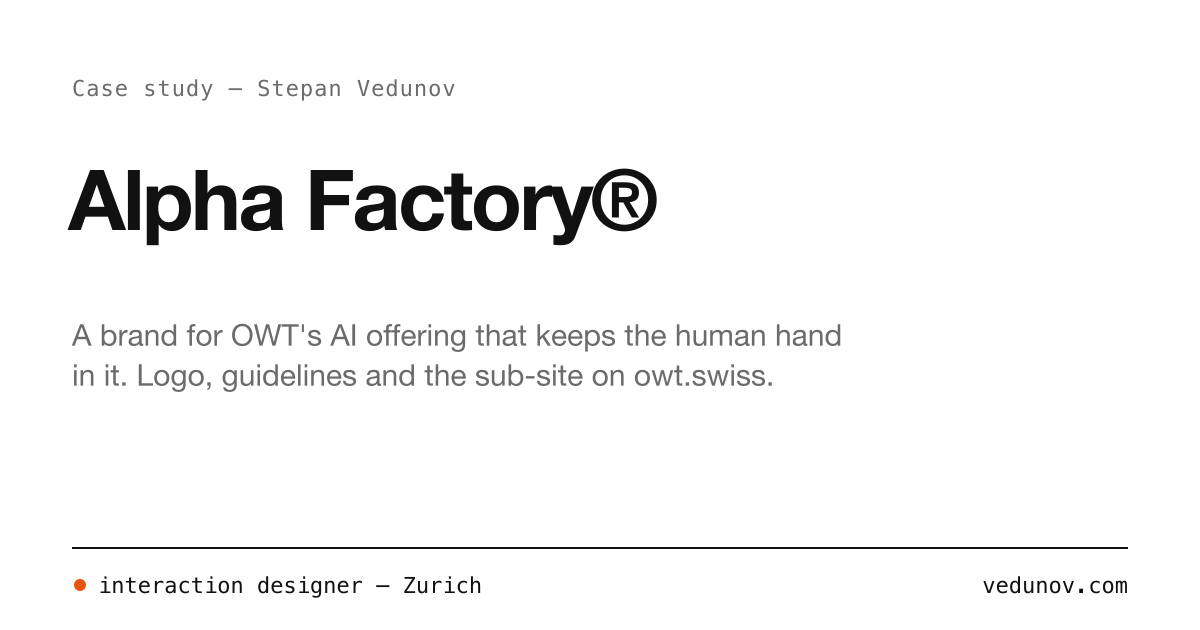
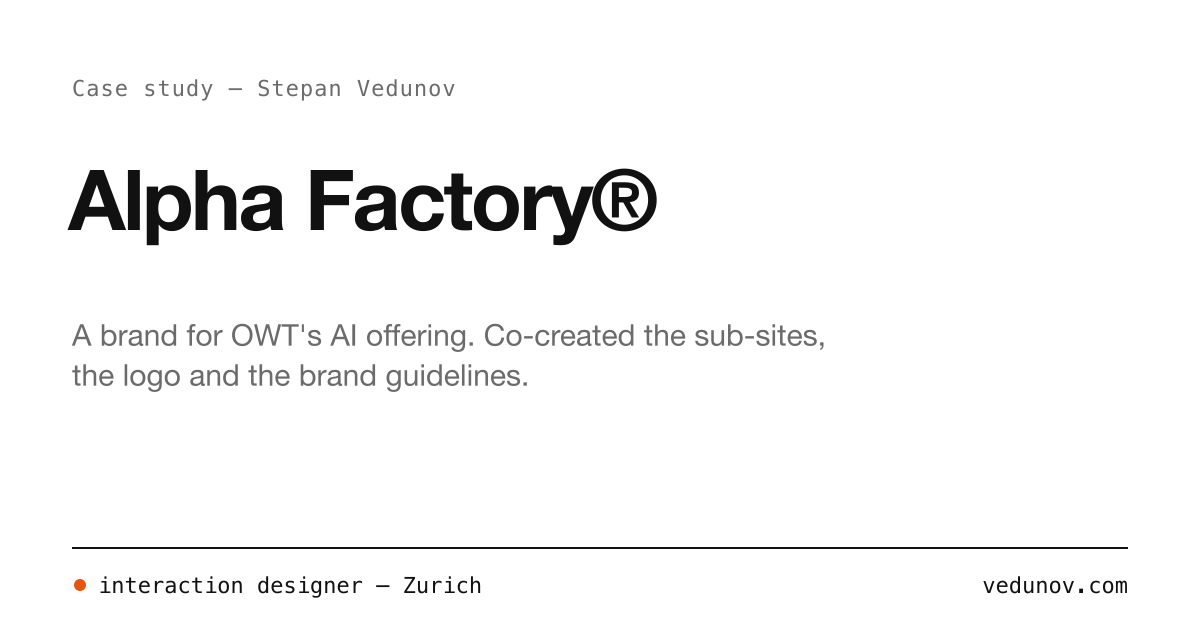
About intro and test wording, Another 3D printed vase, shorter case descriptions

Changed region(s): [[0.0617, 0.5127, 0.7092, 0.6333]]

diff --git a/content/de/pages/about.md b/content/de/pages/about.md
@@ -1,7 +1,7 @@
 ---
 title: Über mich
 description: Über Stepan Vedunov, Interaction Designer in Zürich. Wo Design auf Code trifft, ein paar Auszeichnungen und was ich neben der Arbeit mache.
-intro: Ich gestalte digitale Produkte für Gesundheit und Unternehmen und schreibe oft auch den Code dafür.
+intro: Ich gestalte, teste und baue (meistens in dieser Reihenfolge)
 # Der Fotostapel oben. Gleiche Fotos wie in content/pages/about.md.
 photos:
   - src: /photos/stepan-2.jpg
@@ -56,6 +56,6 @@ outside:
   photos: []
 ---
 
-UX/UI Designer mit Erfahrung in Beratung, Forschung und grossen Unternehmen. Ich gestalte komplexe Anwendungen, von der Nutzerforschung und Ideenfindung bis zu interaktiven Prototypen, die man ausprobieren kann.
+UX/UI Designer mit Erfahrung in Beratung, Forschung und grossen Unternehmen. Ich gestalte komplexe Anwendungen, von der Nutzerforschung und Ideenfindung bis zu interaktiven Prototypen, die man testen kann.
 
 Ich mag Probleme, die anfangs chaotisch aussehen, und teste lieber einen groben Prototyp mit echten Menschen, als die falsche Idee zu polieren.

diff --git a/content/pages/about.md b/content/pages/about.md
@@ -1,7 +1,7 @@
 ---
 title: About
 description: About Stepan Vedunov, interaction designer in Zurich. Where design meets code, a few things I've been recognised for, and what I do outside work.
-intro: I design digital products for health and business, and I often write the code for them too.
+intro: I design, test and build (mostly in that order)
 # The photo stack at the top: three photos of me. The first one is shown on load
 # (strip location metadata from new photos first, the repo is public).
 photos:
@@ -57,6 +57,6 @@ outside:
   photos: []
 ---
 
-UX/UI designer with experience in consulting, research and enterprise settings. I design complex applications, from user research and ideation to interactive prototypes that people can try.
+UX/UI designer with experience in consulting, research and enterprise settings. I design complex applications, from user research and ideation to interactive prototypes that people can test.
 
 I like problems that look messy at first, and I'd rather test a rough prototype with real people than polish the wrong idea.

diff --git a/content/de/work/1.kymu.md b/content/de/work/1.kymu.md
@@ -1,6 +1,6 @@
 ---
 title: Kymu
-outcome: Physiotherapie als Spiel auf jedem Fernseher, begleitet von der Therapeutin oder dem Therapeuten. Über CHF 100'000 an Fördergeldern und ein klinischer Pilot mit dem Luzerner Kantonsspital.
+outcome: Physiotherapie als Spiel auf jedem Fernseher, für Erwachsene mit muskuloskelettalen Erkrankungen. Derzeit im Test am Luzerner Kantonsspital.
 year: 2025–heute
 role: Product Designer, Wissenschaftlicher Mitarbeiter
 org: Kymu

diff --git a/content/work/1.kymu.md b/content/work/1.kymu.md
@@ -1,6 +1,6 @@
 ---
 title: Kymu
-outcome: Game-based physiotherapy on any TV, guided by a therapist. More than CHF 100k in grants, and a clinical pilot with Lucerne Cantonal Hospital.
+outcome: Game-based physiotherapy on any TV for adults with musculoskeletal conditions. Currently testing at Lucerne Cantonal Hospital.
 year: 2025–now
 role: Product Designer, Research Associate
 org: Kymu

diff --git a/content/de/work/2.calmea.md b/content/de/work/2.calmea.md
@@ -1,6 +1,6 @@
 ---
 title: Calmea
-outcome: Kontaktloses Schlaftracking, direkt ins Bett integriert. Ich habe die Plattform gestaltet und danach Full-Stack gebaut. Heute ein ETH Spin-off.
+outcome: Kontaktloses Schlaftracking, direkt ins Bett integriert. Mitarbeit an UX/UI und an der Kernentwicklung der App.
 year: 2025–26
 role: UX Engineer
 org: ETH Sensory-Motor Systems Lab

diff --git a/content/de/work/3.alpha-factory.md b/content/de/work/3.alpha-factory.md
@@ -1,6 +1,6 @@
 ---
 title: Alpha Factory®
-outcome: Eine Marke für das KI-Angebot von OWT, in der die menschliche Hand sichtbar bleibt. Logo, Brand Guidelines und die Subsite auf owt.swiss.
+outcome: Eine Marke für das KI-Angebot von OWT. Die Subsites, das Logo und die Brand Guidelines mitentwickelt.
 year: "2026"
 role: UX/UI Designer
 tier: featured

diff --git a/content/work/2.calmea.md b/content/work/2.calmea.md
@@ -1,6 +1,6 @@
 ---
 title: Calmea
-outcome: Contactless sleep tracking built into the bed. I designed the platform, then built it full-stack. Now an ETH spin-off.
+outcome: Contactless sleep tracking built into the bed. Worked on the UX/UI and core development of the app.
 year: 2025–26
 role: UX Engineer
 org: ETH Sensory-Motor Systems Lab

diff --git a/content/work/3.alpha-factory.md b/content/work/3.alpha-factory.md
@@ -1,6 +1,6 @@
 ---
 title: Alpha Factory®
-outcome: A brand for OWT's AI offering that keeps the human hand in it. Logo, guidelines and the sub-site on owt.swiss.
+outcome: A brand for OWT's AI offering. Co-created the sub-sites, the logo and the brand guidelines.
 year: "2026"
 role: UX/UI Designer
 tier: featured
